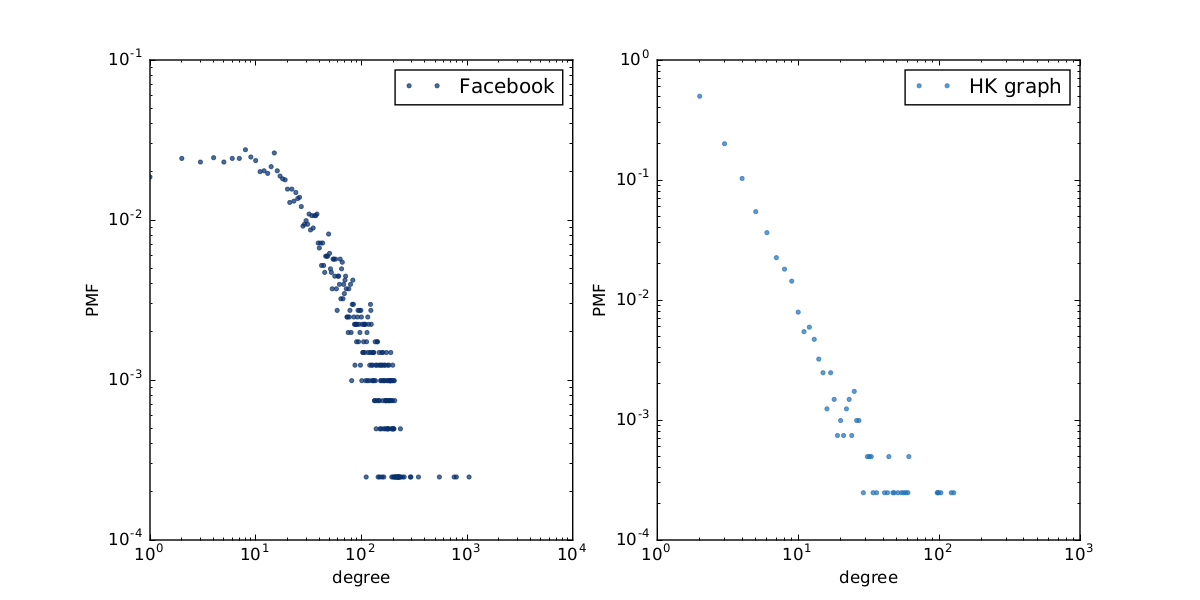
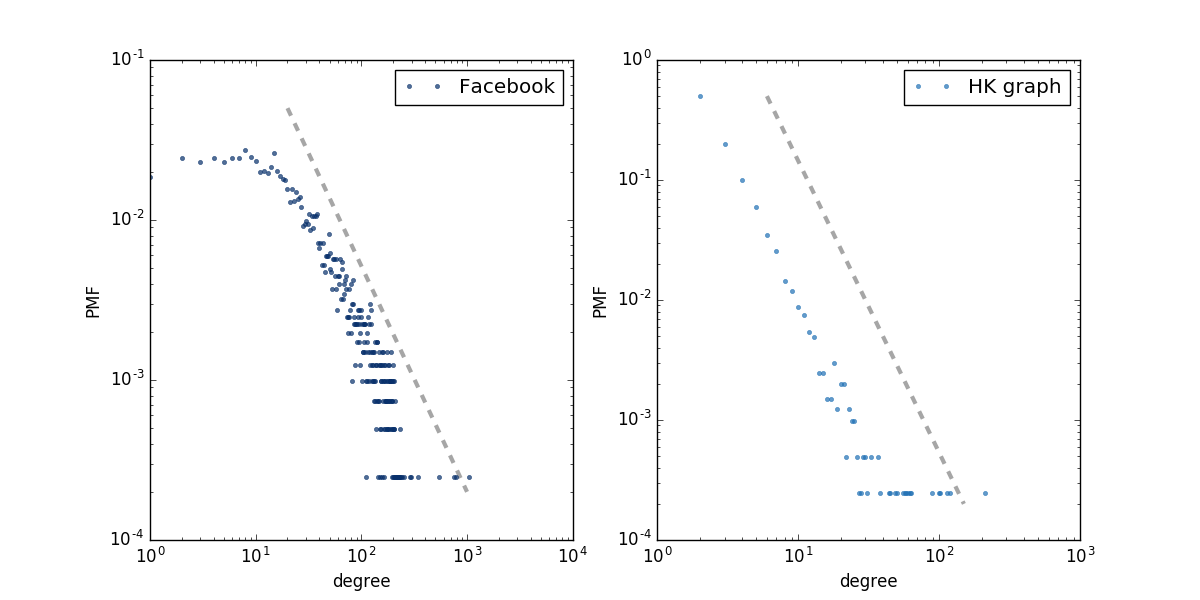
Updating PMF graphs

diff --git a/code/replication.py b/code/replication.py
@@ -4,6 +4,7 @@ import numpy as np
 import random
 import thinkplot
 from thinkstats2 import Cdf, Pmf
+from scipy.stats import linregress
 from networkx.algorithms.approximation import average_clustering
 
 print("Initializing...")
@@ -44,6 +45,7 @@ def hk_graph(n, m, p, seed=None):
     """Constructs a Holme-Kim graph.
 
     n: number of nodes
+    m: 
     p: probability of PA of edge to a given node
     k: number of edges for each new node
     seed: random seen
@@ -148,17 +150,21 @@ def generate_pmf(fb, hk):
 
     thinkplot.preplot(cols=2)
 
+    thinkplot.plot([30, 2000], [5e-2, 2e-4], color='gray', linestyle='dashed')
+
     thinkplot.Pdf(pmf_fb, style='.', label='Facebook')
     thinkplot.config(xscale='log', yscale='log',
       xlabel='degree', ylabel='PMF')
 
     thinkplot.subplot(2)
 
+    thinkplot.plot([55, 500], [5e-2, 2e-4], color='gray', linestyle='dashed')
+
     thinkplot.Pdf(pmf_hk, style='.', label='HK graph')
     thinkplot.config(xscale='log', yscale='log',
       xlabel='degree', ylabel='PMF')
 
-    plt.savefig('PMFGraphs_Original.pdf')
+    plt.savefig('PMFGraphs_Original.png')
 
 def generate_cdf(fb, hk):
     cdf_fb = Cdf(degrees(fb))
@@ -169,7 +175,7 @@ def generate_cdf(fb, hk):
     thinkplot.config(xlabel='degree', xscale='log',
                  ylabel='CDF')
 
-    plt.savefig('CDFGraphs_Original.pdf')
+    plt.savefig('CDFGraphs_Original.png')
 
 def generate_ccdf(fb, hk):
     cdf_fb = Cdf(degrees(fb))

diff --git a/code/modification.py b/code/modification.py
@@ -131,17 +131,21 @@ def generate_pmf(fb, hk):
 
     thinkplot.preplot(cols=2)
 
+    thinkplot.plot([20, 1000], [5e-2, 2e-4], color='gray', linestyle='dashed')
+
     thinkplot.Pdf(pmf_fb, style='.', label='Facebook')
     thinkplot.config(xscale='log', yscale='log',
       xlabel='degree', ylabel='PMF')
 
     thinkplot.subplot(2)
 
+    thinkplot.plot([6, 150], [5e-1, 2e-4], color='gray', linestyle='dashed')
+
     thinkplot.Pdf(pmf_hk, style='.', label='HK graph')
     thinkplot.config(xscale='log', yscale='log',
       xlabel='degree', ylabel='PMF')
 
-    plt.savefig('PMFGraphs_Modified.pdf')
+    plt.savefig('PMFGraphs_Modified.png')
 
 def generate_cdf(fb, hk):
     cdf_fb = Cdf(degrees(fb))
@@ -175,9 +179,6 @@ def main():
     k = int(round(m/n))
 
     hk = hk_graph(n, 1)
-
-    ba = ba_graph(n, k)
-
 
     # generate_pmf(fb, hk)
     # generate_cdf(fb, hk)
